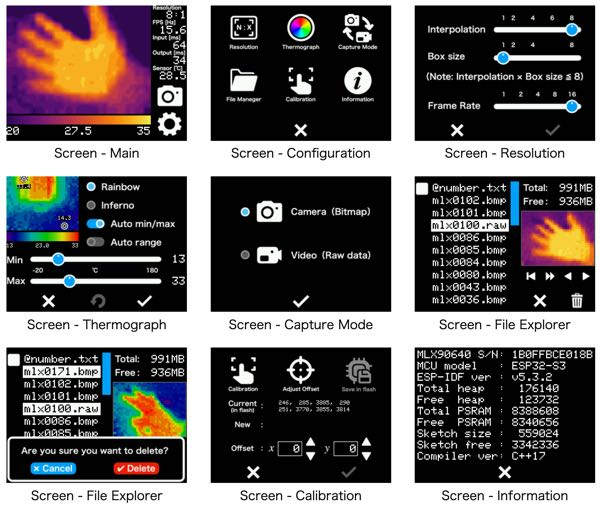
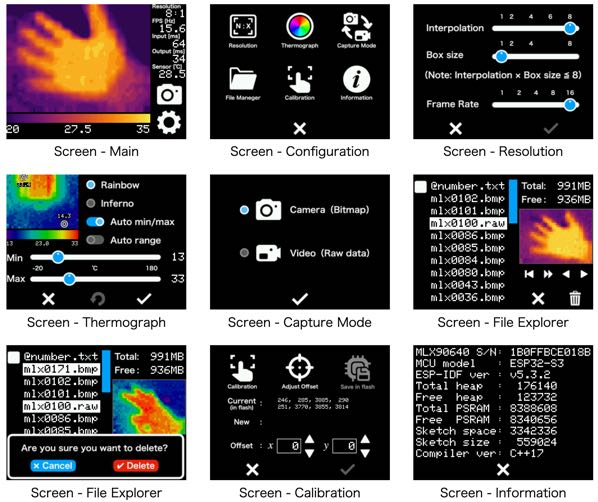
Update screenshot.

diff --git a/MLX90640/widgets.hpp b/MLX90640/widgets.hpp
@@ -1559,8 +1559,8 @@ static void onInformationScreen (const Widget_t *widget, const Touch_t &touch) {
   gfx_printf(x, y + h * 4, "Free  heap  : %7d", ESP.getFreeHeap());
   gfx_printf(x, y + h * 5, "Total PSRAM : %7d", ESP.getPsramSize());
   gfx_printf(x, y + h * 6, "Free  PSRAM : %7d", ESP.getFreePsram());
-  gfx_printf(x, y + h * 7, "Sketch size : %7d", ESP.getSketchSize());
-  gfx_printf(x, y + h * 8, "Sketch free : %7d", ESP.getFreeSketchSpace());
+  gfx_printf(x, y + h * 7, "Sketch space: %7d", ESP.getFreeSketchSpace());
+  gfx_printf(x, y + h * 8, "Sketch size : %7d", ESP.getSketchSize());
 
   /*
     https://en.cppreference.com/w/cpp/compiler_support

diff --git a/MLX90640_GUI_mockup/widgets.hpp b/MLX90640_GUI_mockup/widgets.hpp
@@ -1600,8 +1600,8 @@ static void onInformationScreen (const Widget_t *widget, const Touch_t &touch) {
   gfx_printf(x, y + h * 4, "Free  heap  : %7d", ESP.getFreeHeap());
   gfx_printf(x, y + h * 5, "Total PSRAM : %7d", ESP.getPsramSize());
   gfx_printf(x, y + h * 6, "Free  PSRAM : %7d", ESP.getFreePsram());
-  gfx_printf(x, y + h * 7, "Sketch size : %7d", ESP.getSketchSize());
-  gfx_printf(x, y + h * 8, "Sketch free : %7d", ESP.getFreeSketchSpace());
+  gfx_printf(x, y + h * 7, "Sketch space: %7d", ESP.getFreeSketchSpace());
+  gfx_printf(x, y + h * 8, "Sketch size : %7d", ESP.getSketchSize());
 
   /*
     https://en.cppreference.com/w/cpp/compiler_support

diff --git a/MLX90640/sdcard.hpp b/MLX90640/sdcard.hpp
@@ -327,6 +327,8 @@ static bool SaveBMP24(FS_TYPE &fs, const char *path) {
   if (!file) {
     DBG_EXEC(printf("SD: open %s failed.\n", path));
     return false;
+  } else {
+    DBG_EXEC(printf("saving %s\n", path));
   }
 
   int h = GFX_EXEC(height());
@@ -406,7 +408,7 @@ static bool SaveBMP24(FS_TYPE &fs, const char *path) {
   }
 
   file.close();
-  DBG_EXEC(printf("saved successfully.\n"));
+  DBG_EXEC(printf("done.\n"));
   return true;
 }
 

diff --git a/MLX90640_GUI_mockup/sdcard.hpp b/MLX90640_GUI_mockup/sdcard.hpp
@@ -327,6 +327,8 @@ static bool SaveBMP24(FS_TYPE &fs, const char *path) {
   if (!file) {
     DBG_EXEC(printf("SD: open %s failed.\n", path));
     return false;
+  } else {
+    DBG_EXEC(printf("saving %s\n", path));
   }
 
   int h = GFX_EXEC(height());
@@ -406,7 +408,7 @@ static bool SaveBMP24(FS_TYPE &fs, const char *path) {
   }
 
   file.close();
-  DBG_EXEC(printf("saved successfully.\n"));
+  DBG_EXEC(printf("done.\n"));
   return true;
 }
 

diff --git a/MLX90640/touch.hpp b/MLX90640/touch.hpp
@@ -209,9 +209,7 @@ bool touch_event(Touch_t &touch) {
   // Capture screen
   else if (Serial.available()) {
     Serial.readStringUntil('\n');
-    Serial.println("saving screenshot...");
     sdcard_save();
-    Serial.println("done.");
   }
 #endif
 

diff --git a/MLX90640_GUI_mockup/touch.hpp b/MLX90640_GUI_mockup/touch.hpp
@@ -209,9 +209,7 @@ bool touch_event(Touch_t &touch) {
   // Capture screen
   else if (Serial.available()) {
     Serial.readStringUntil('\n');
-    Serial.println("saving screenshot...");
     sdcard_save();
-    Serial.println("done.");
   }
 #endif
 
